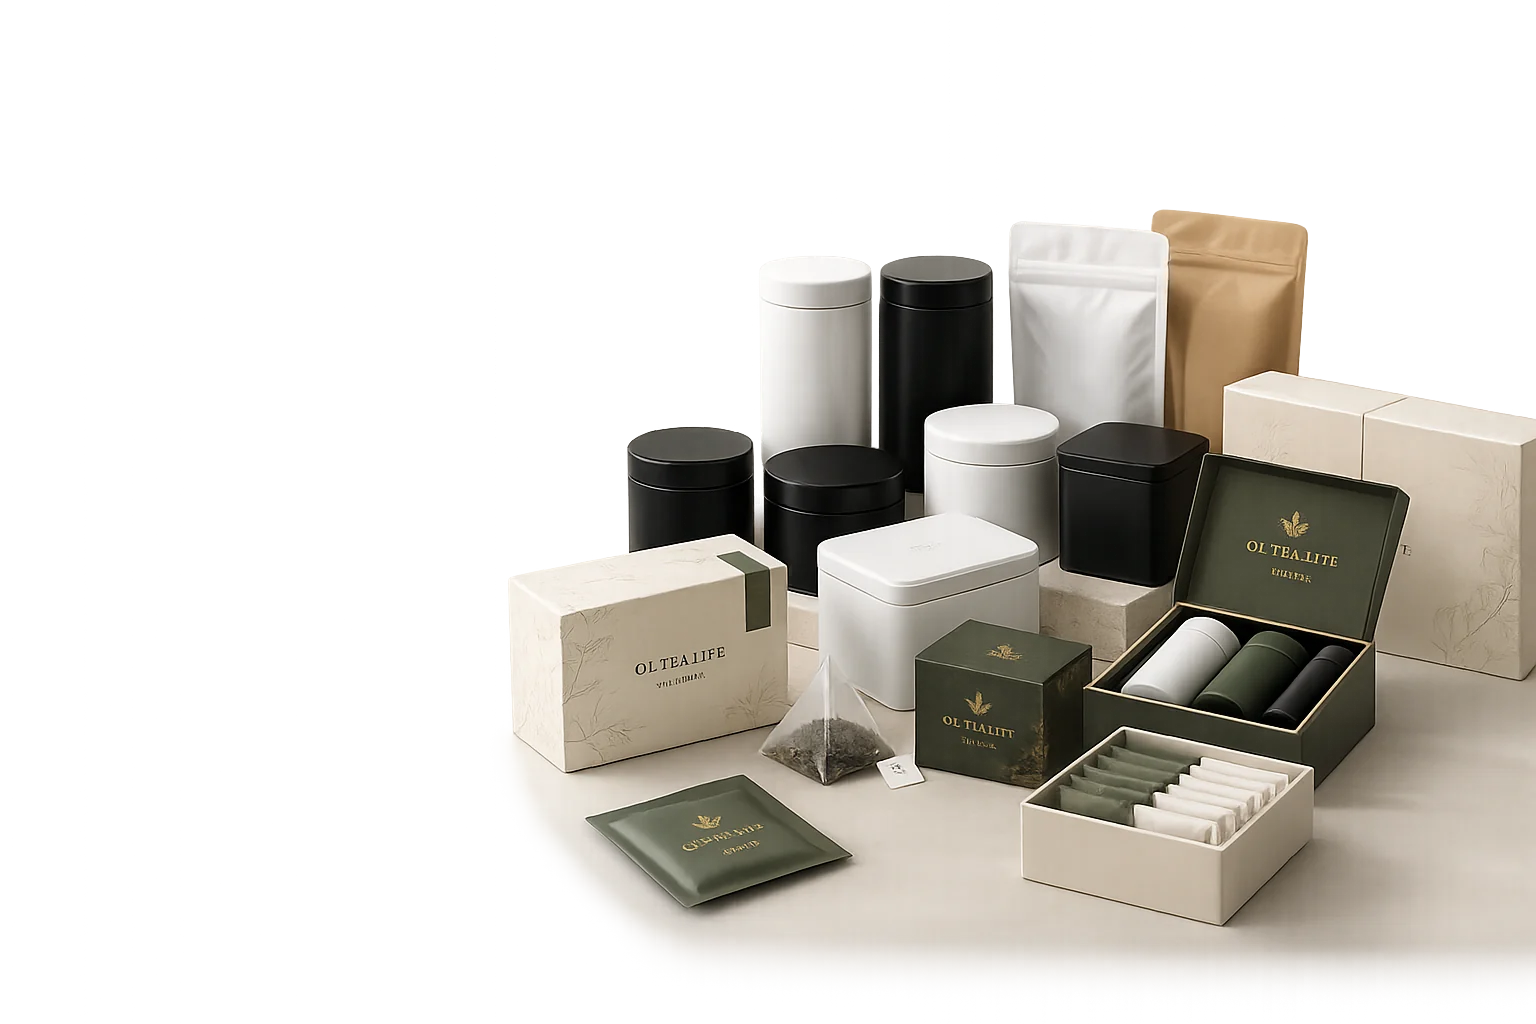
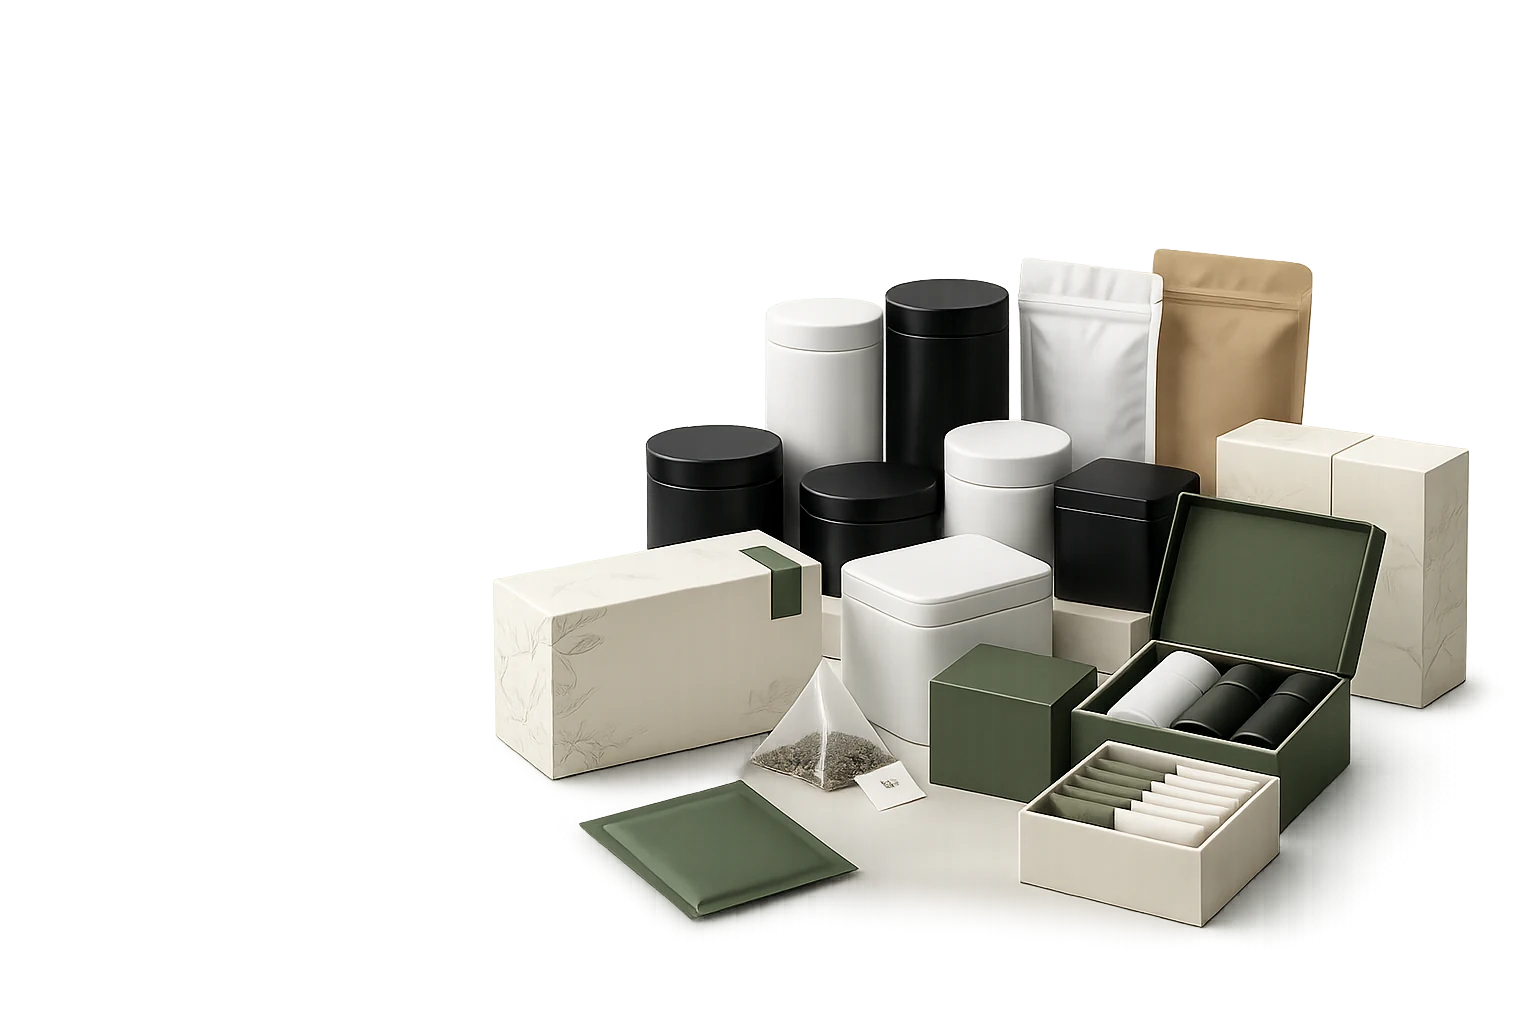
Replace Packaging Options hero with transparent packaging collection

Changed region(s): [[0.3125, 0.1875, 1.0, 0.9688]]

diff --git a/src/pages/PageTemplates.css b/src/pages/PageTemplates.css
@@ -780,8 +780,8 @@
 
 .packaging-hero {
   display: grid;
-  grid-template-columns: minmax(0, 0.43fr) minmax(360px, 0.57fr);
-  gap: 34px;
+  grid-template-columns: minmax(0, 0.42fr) minmax(360px, 0.58fr);
+  gap: 44px;
   align-items: center;
   padding: 96px max(24px, calc((100% - 1120px) / 2)) 84px;
   background: linear-gradient(120deg, var(--color-beige), var(--color-surface));
@@ -859,7 +859,7 @@
   margin: 0;
   border-radius: 0;
   box-shadow: none;
-  transform: translateX(-24px) scale(1.08);
+  transform: translateX(-54px) scale(1.22);
   transform-origin: center;
 }
 
@@ -1169,7 +1169,7 @@
   }
 
   .packaging-hero__visual {
-    transform: translateX(-8px) scale(1.08);
+    transform: translateX(-10px) scale(1.12);
   }
 
   .packaging-hero h1 {